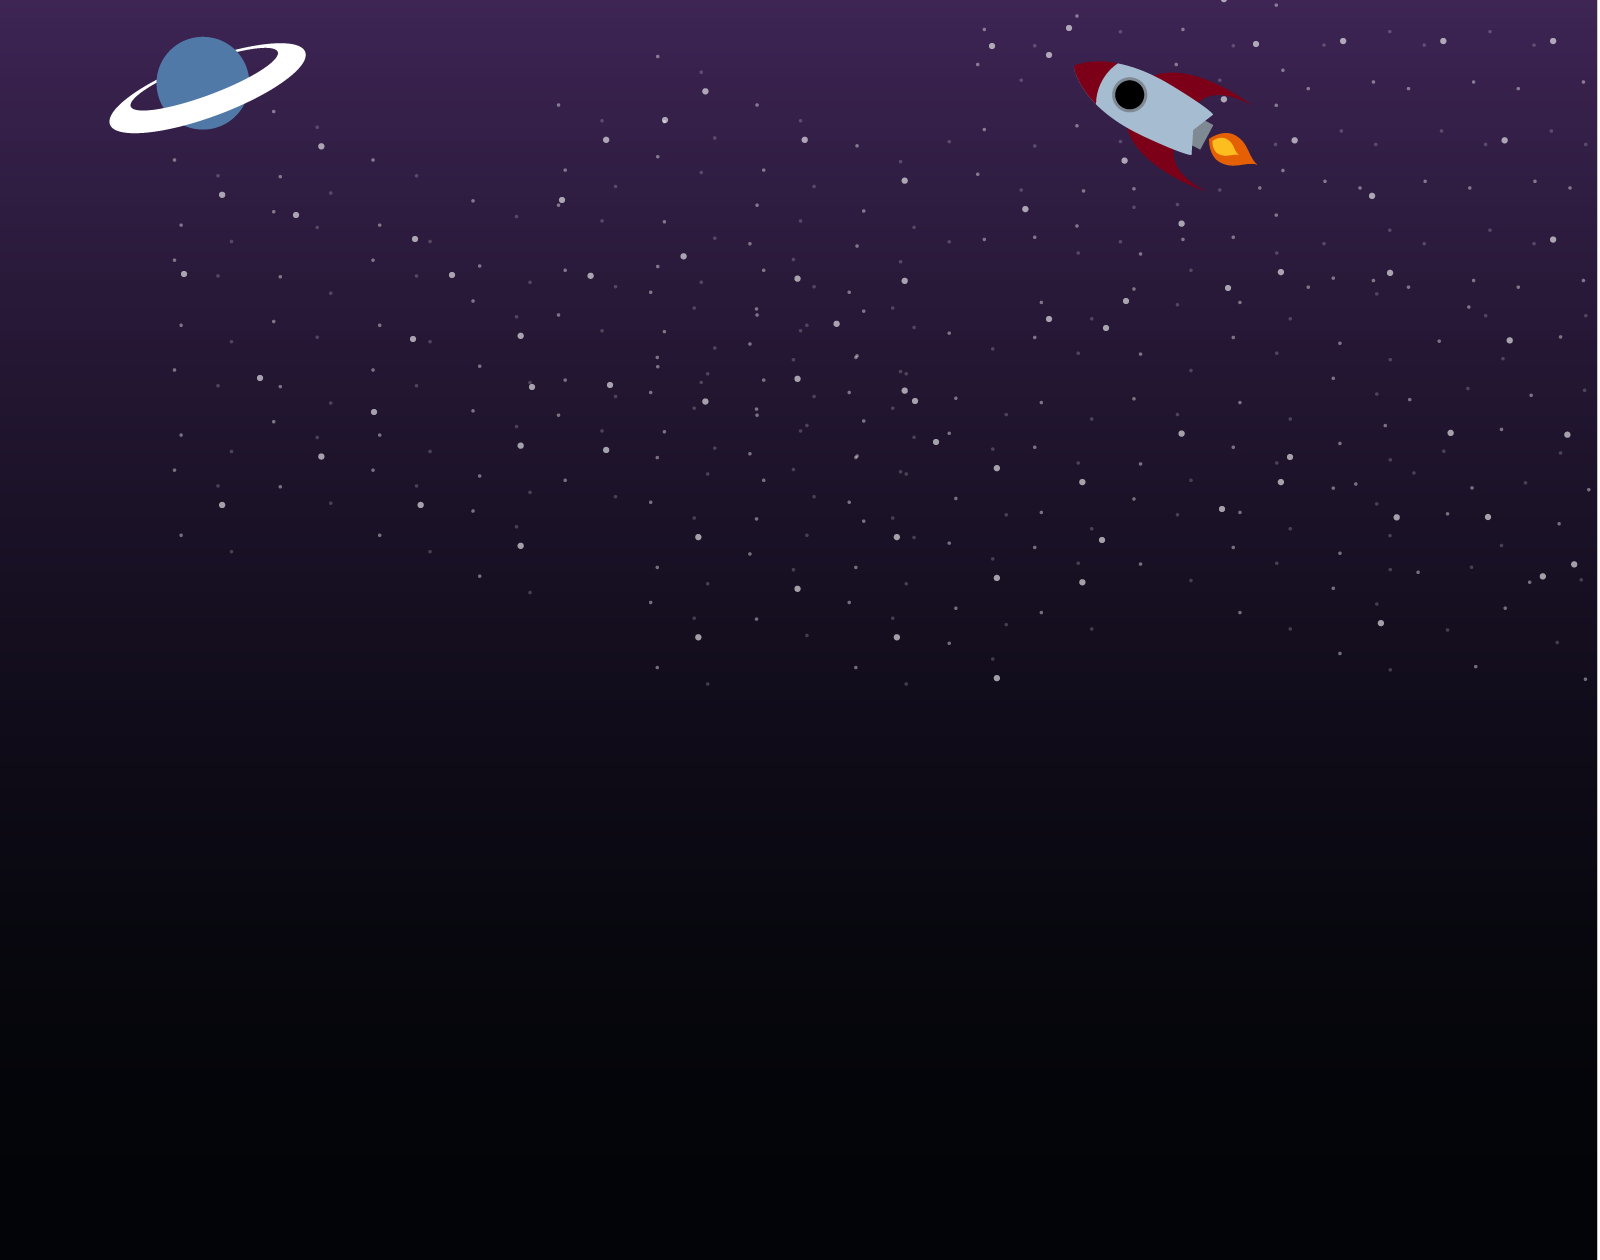
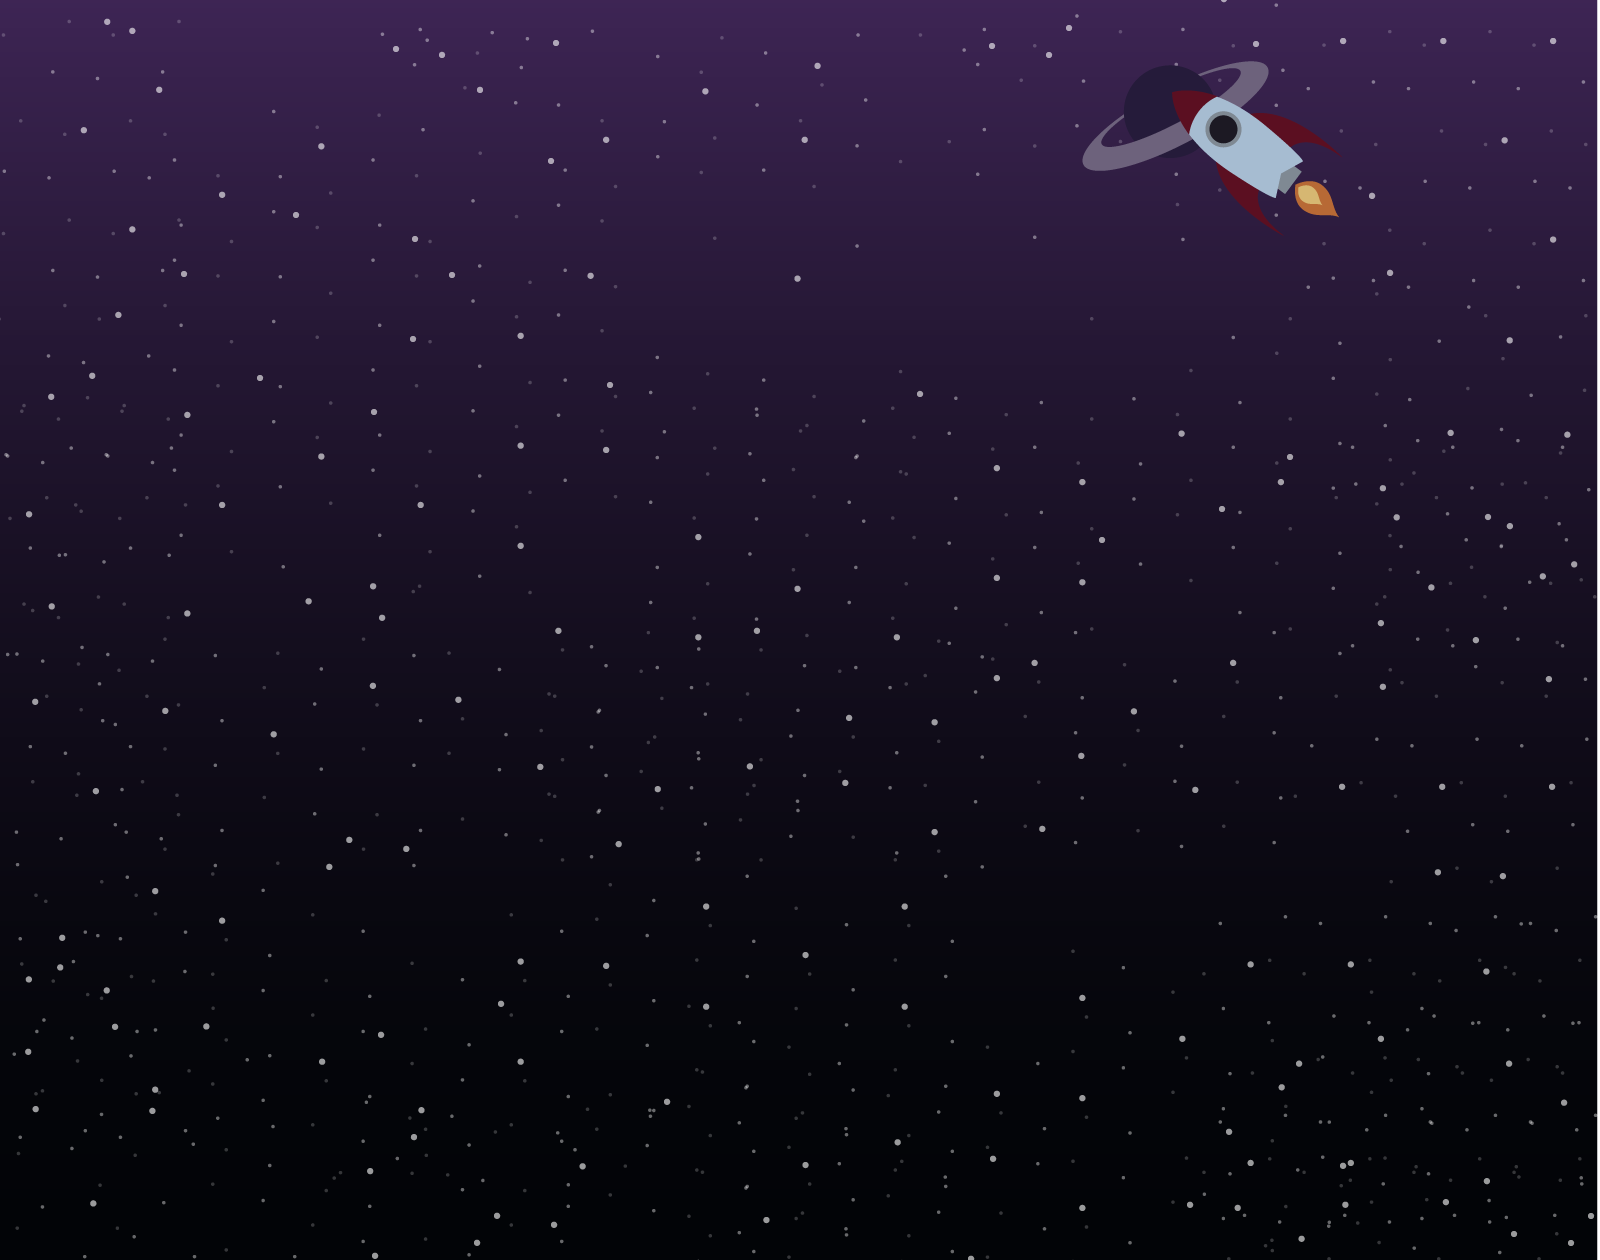
Refine placement of rocket and add stars.

Changed region(s): [[0.6562, 0.031, 0.8438, 0.1857], [0.0625, 0.031, 0.1875, 0.1238]]

diff --git a/index.html b/index.html
@@ -12,7 +12,7 @@
 
   
 
-<div class="magellan-container" data-magellan-expedition="fixed" data-options="destination_threshold:25;throttle_delay:0;">
+<div class="magellan-container" data-magellan-expedition="fixed" data-options="destination_threshold:65;throttle_delay:0;">
   <dl class="sub-nav">
 		<dd data-magellan-arrival="hello"><a href="#hello">Hello!</a></dd> 
 		<dd data-magellan-arrival="about"><a href="#about">A Little About Me</a></dd>
